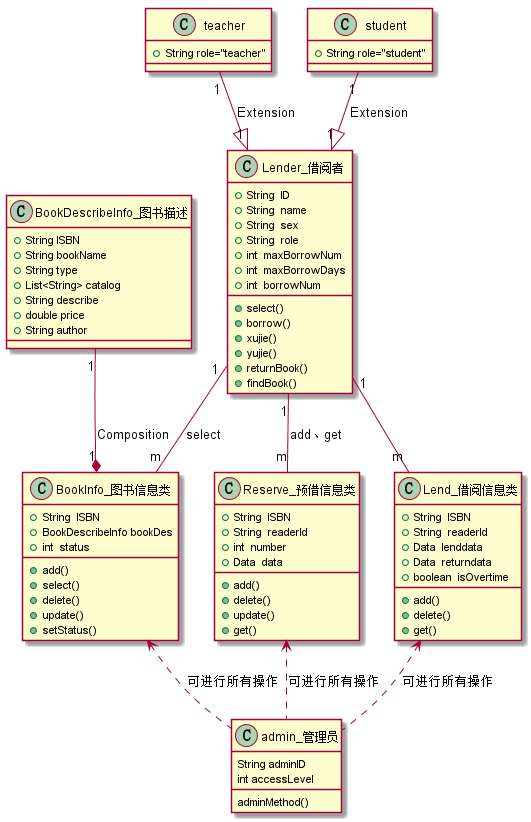
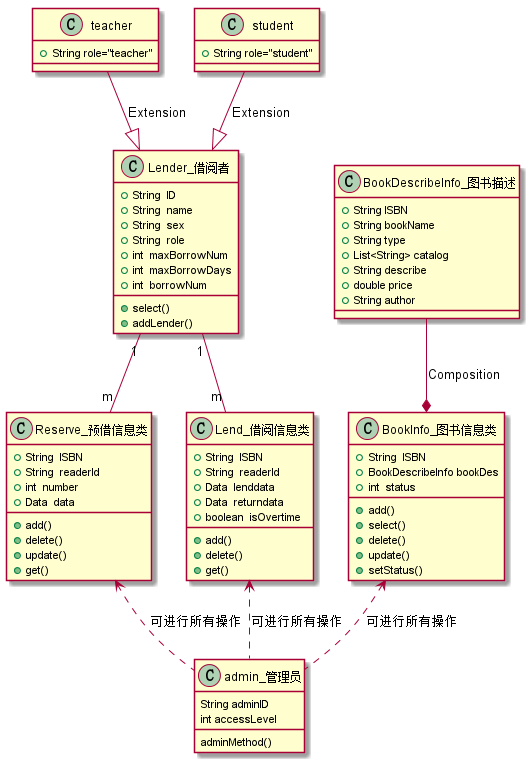
test3

diff --git a/test3/README.md b/test3/README.md
@@ -39,11 +39,7 @@ class Lender_借阅者{
     +int  maxBorrowDays
     +int  borrowNum
     +select()
-    +borrow()
-    +xujie()
-    +yujie()
-    +returnBook()
-    +findBook()
+    +addLender()
 }
 class BookInfo_图书信息类{
     +String  ISBN
@@ -75,11 +71,10 @@ class admin_管理员{
     int accessLevel
     adminMethod()
 }
-teacher"1" --|> "1"Lender_借阅者:Extension
-student"1" --|> "1"Lender_借阅者:Extension
-BookDescribeInfo_图书描述"1" --* "1"BookInfo_图书信息类:Composition
-Lender_借阅者"1" -- "m"BookInfo_图书信息类:select
-Lender_借阅者"1" -- "m"Reserve_预借信息类:add、get
+teacher --|> Lender_借阅者:Extension
+student--|> Lender_借阅者:Extension
+BookDescribeInfo_图书描述 --* BookInfo_图书信息类:Composition
+Lender_借阅者"1" -- "m"Reserve_预借信息类
 Lender_借阅者"1" -- "m"Lend_借阅信息类
 BookInfo_图书信息类 <.. admin_管理员:可进行所有操作
 Reserve_预借信息类 <.. admin_管理员:可进行所有操作
@@ -182,11 +177,7 @@ class Lender_借阅者{
     +int  maxBorrowDays
     +int  borrowNum
     +select()
-    +borrow()
-    +xujie()
-    +yujie()
-    +returnBook()
-    +findBook()
+    +addLender()
 }
 @enduml
 ``` 
@@ -205,12 +196,8 @@ Lender：借阅者
 		maxBorrowNum:最大借阅数量
 		borrowNum:已借数量
 	方法：
-		select()：查询自己的借阅记录
-		borrow()：借书
-		xujie():续借图书
-		yujie():预借图书
-		returnBook()：归还图书
-		findBook():查询图书信息
+		select()：查询借阅者
+		addLender()：添加借阅者
 ```
 
 ### 2.4 类BookInfo
